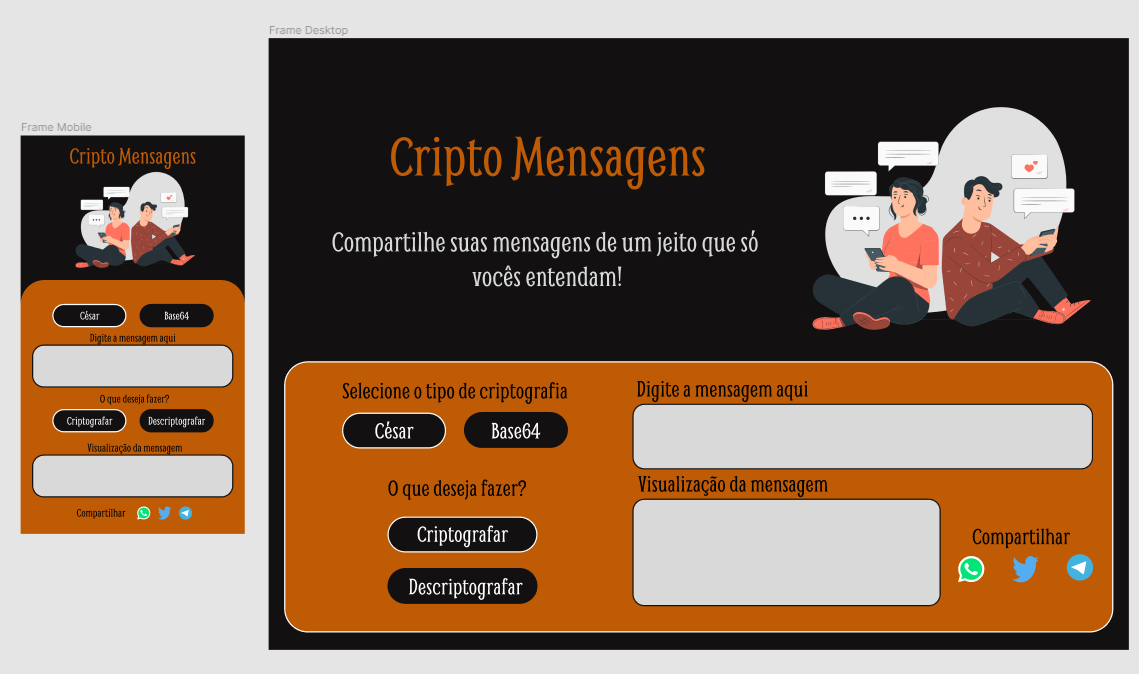
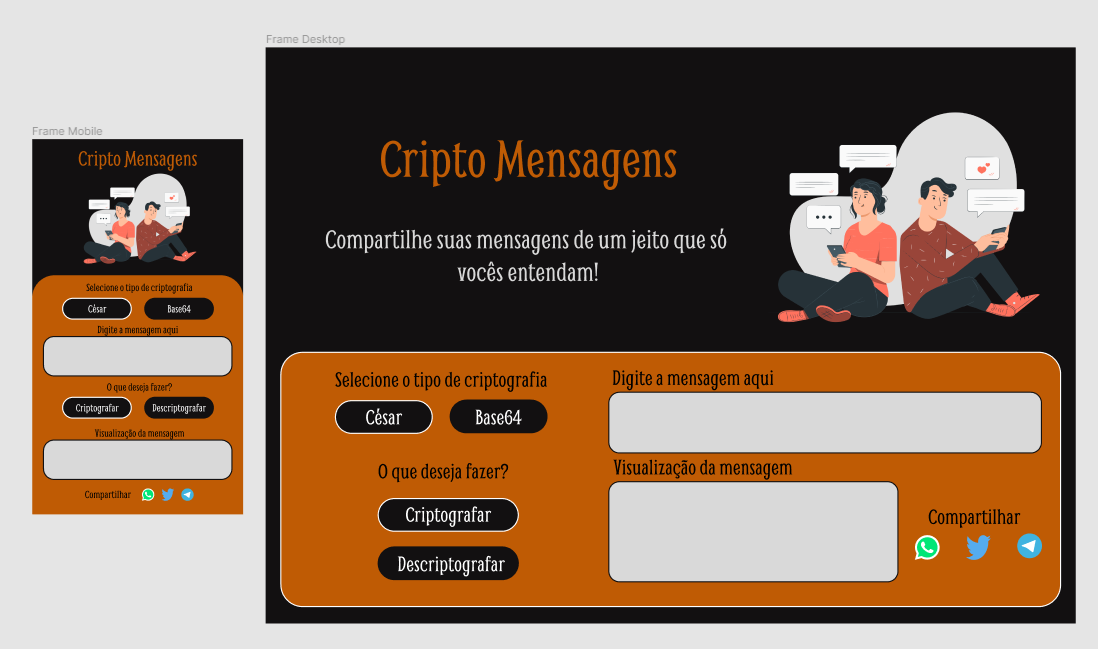
Adiciona estrutura inicial do projeto para mobile

diff --git a/index.html b/index.html
@@ -1,0 +1,42 @@
+<!DOCTYPE html>
+<html lang="en">
+<head>
+   <meta charset="UTF-8">
+   <meta http-equiv="X-UA-Compatible" content="IE=edge">
+   <meta name="viewport" content="width=device-width, initial-scale=1.0">
+   <link rel="stylesheet" href="base.css">
+   <link rel="stylesheet" href="style.css">
+   <title>Cripto Mensagens</title>   
+</head>
+<body>
+   <div class="containerTitle">
+      <h1>Cripto Mensagens</h1>
+      <img src="./image-title.png" alt="imagem abstrata no head da pagina">
+   </div>
+   <div class="containerApp">
+      <div class="wrapperApp">
+         <p>Selecione o tipo de criptografia</p>
+         <div class="buttonsTypeCripto">
+            <button ativo>César</button>
+            <button>Base64</button>
+         </div>
+         <p>Digite a mensagem aqui</p>
+         <textarea name="textMessage" id="textMessage" cols="30" rows="5"></textarea>
+         <p>O que deseja fazer?</p>
+         <div class="buttonsCriptografia">
+            <button ativo>Criptografar</button>
+            <button>Descriptografar</button>
+         </div>
+         <p>Visualização da mensagem</p>
+         <textarea name="resultMessage" id="resultMessage" cols="30" rows="5"></textarea>
+         <div class="buttonsShare">
+            <p>Compartilhar:</p>
+            <a href="#"><img src="./logos_whatsapp.png" alt="Logotipo do whatsapp"></a>
+            <a href="#"><img src="./logos_twitter.png" alt="Logotipo do twitter"></a>
+            <a href="#"><img src="./logos_telegram.png" alt="Logotipo do telegram"></a>
+         </div>
+      </div>
+   </div>
+   <script src="./index.js"></script>
+</body>
+</html>

diff --git a/style.css b/style.css
@@ -1,0 +1,43 @@
+.containerTitle{
+   width: 100%;
+   height: 35vh;
+   display: flex;
+   align-items: center;
+   flex-direction: column;
+   padding: 10px;
+}
+
+.containerTitle h1{
+   font-family: var(--font-primary);
+   color: var(--orange);
+   font-size: 2rem;
+}
+
+.containerApp{
+   width: 100%;
+   height: 65vh;
+   background-color: var(--orange);
+   border-top-left-radius: 40px;
+   border-top-right-radius: 40px;
+   padding: 10px;
+   display: flex;
+   flex-direction: column;
+   align-items: center;
+   justify-content: center;
+}
+
+p{
+   text-align: center;
+   font-family: var(--font-primary);
+   font-size: 1.2rem;
+}
+
+.buttonsShare{
+   display: flex;
+   justify-content: space-evenly;
+}
+
+.buttonsShare a img{
+   width: 28px;
+   height: 28px;
+}

diff --git a/base.css b/base.css
@@ -1,0 +1,25 @@
+@import url('https://fonts.googleapis.com/css2?family=Roboto:wght@100&family=Smythe&display=swap');
+*{
+   padding: 0;
+   margin: 0;
+   box-sizing: border-box;
+   font-size: 18px;
+}
+
+:root{
+   /* cores */
+   --black: #121011;
+   --orange: #BF5B04;
+   --gray: #d9d9d9;
+   --write: #fff;
+
+   /* fontes */
+   --font-primary: 'Smythe', cursive;
+   --font-secondary: 'Roboto', sans-serif;
+}
+
+body{
+   background-color: var(--black);
+   width: 100%;
+   height: 100vh;
+}

diff --git a/README.md b/README.md
@@ -1,4 +1,4 @@
-# Cripto Mensagens
+# Cripto Mensagens (em construção)
 
 Esse projeto consiste em um website onde os usuários podem criptografar suas mensagens antes de envia-las para alguém. São dois tipos de criptografia, o cifra de César e o Base64, podendo o usuário escolher entre elas. No caso do cifra de César ser escolhido é possivel escolher um valor de incremento para a mensagem, assim somente você e a pessoa que recebeu poderá descriptografar a mensagem.
 
